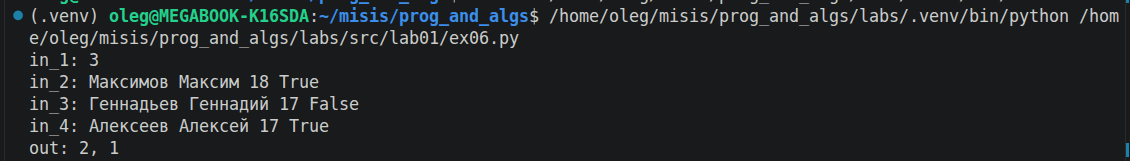
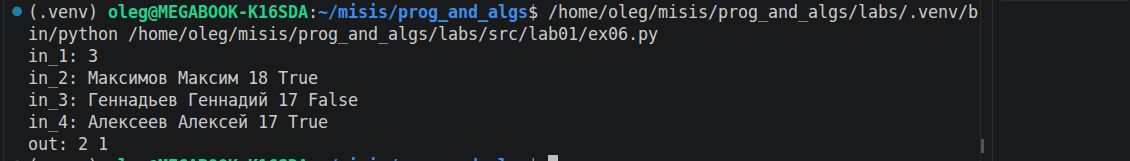
Change ex06

diff --git a/src/lab01/ex06.py b/src/lab01/ex06.py
@@ -9,4 +9,4 @@ for _ in range(n):
     if sp[-1] == 'True':
         k += 1
 
-print(f'out: {k}, {n-k}')
+print(f'out: {k} {n-k}')
